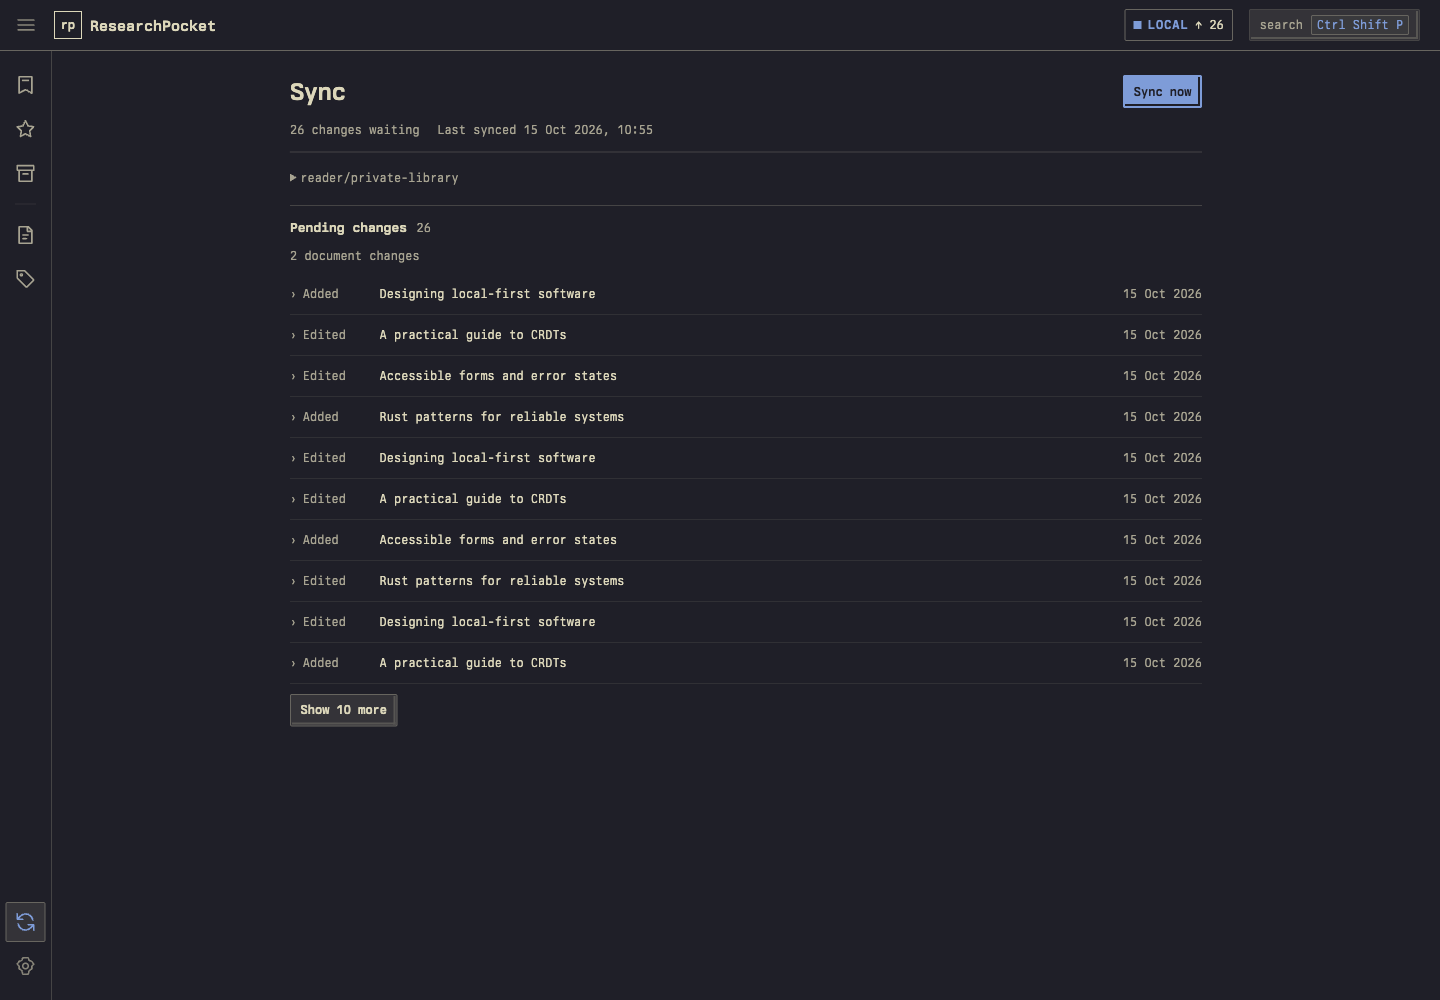
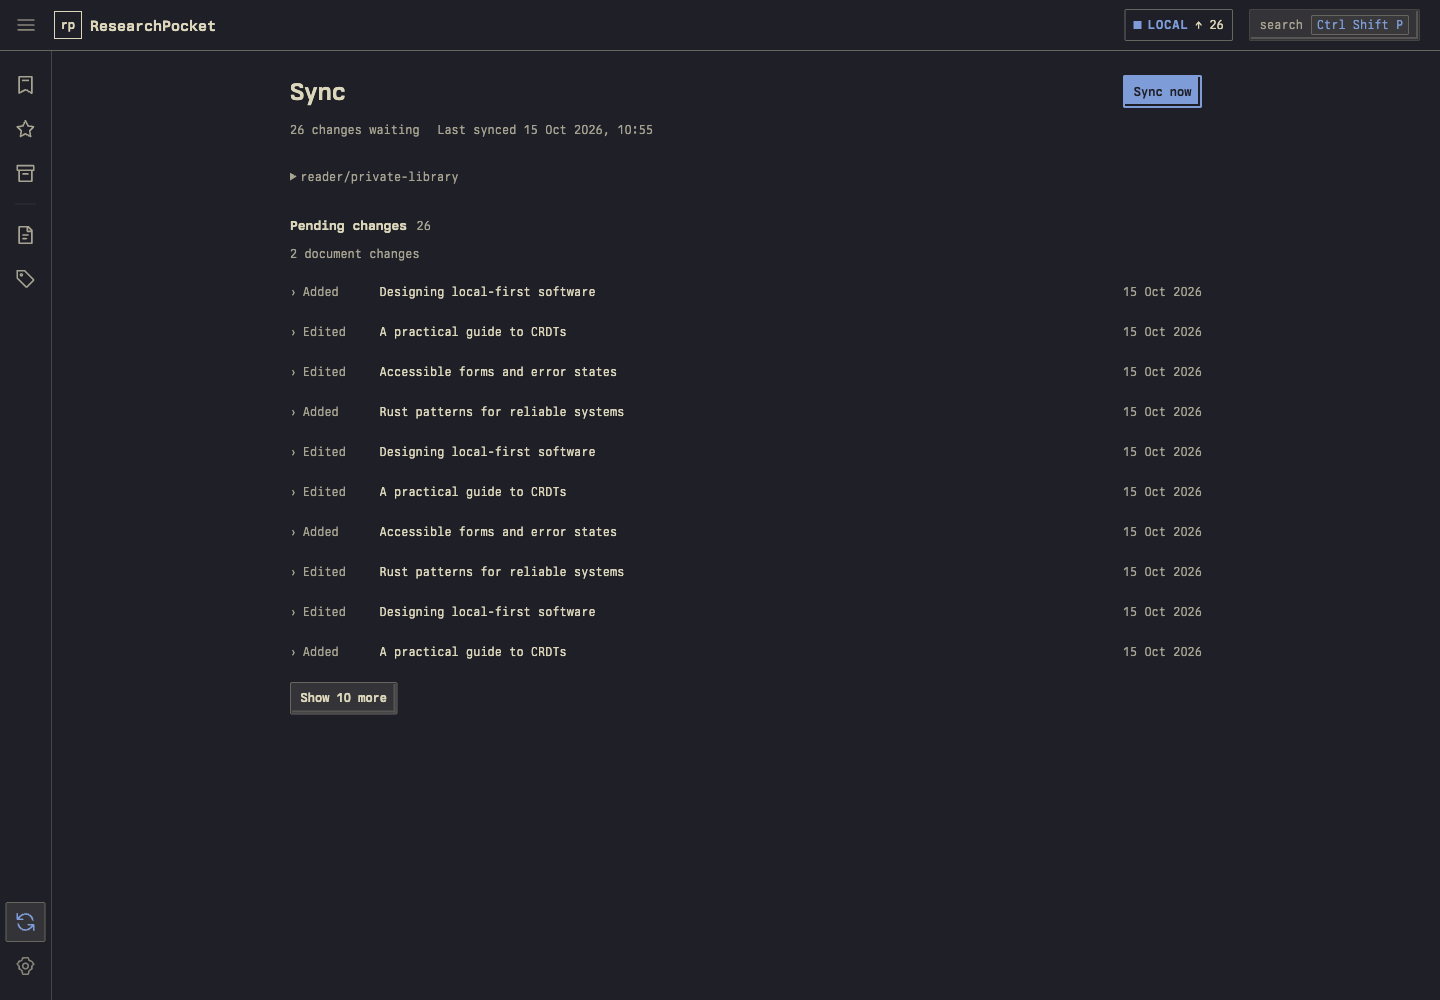
Remove sync separators

diff --git a/web/src/styles/app.css b/web/src/styles/app.css
@@ -546,7 +546,6 @@ button.local-status:focus-visible .status-copy {
 }
 
 .sync-settings {
-  border-block: var(--rule) solid var(--color-border);
   padding-block: var(--space-2);
 }
 
@@ -659,10 +658,6 @@ button.local-status:focus-visible .status-copy {
   list-style: none;
   margin: 0;
   padding: 0;
-}
-
-.sync-change {
-  border-bottom: var(--rule) solid var(--color-border-subtle);
 }
 
 .sync-change > summary {
